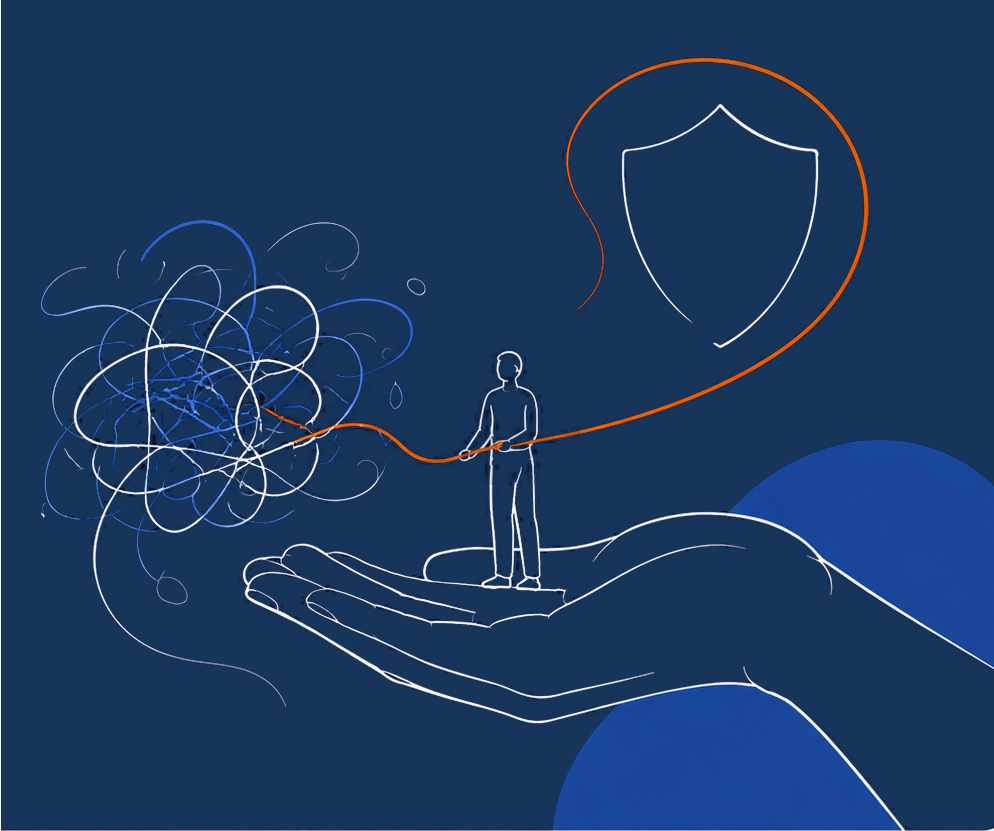
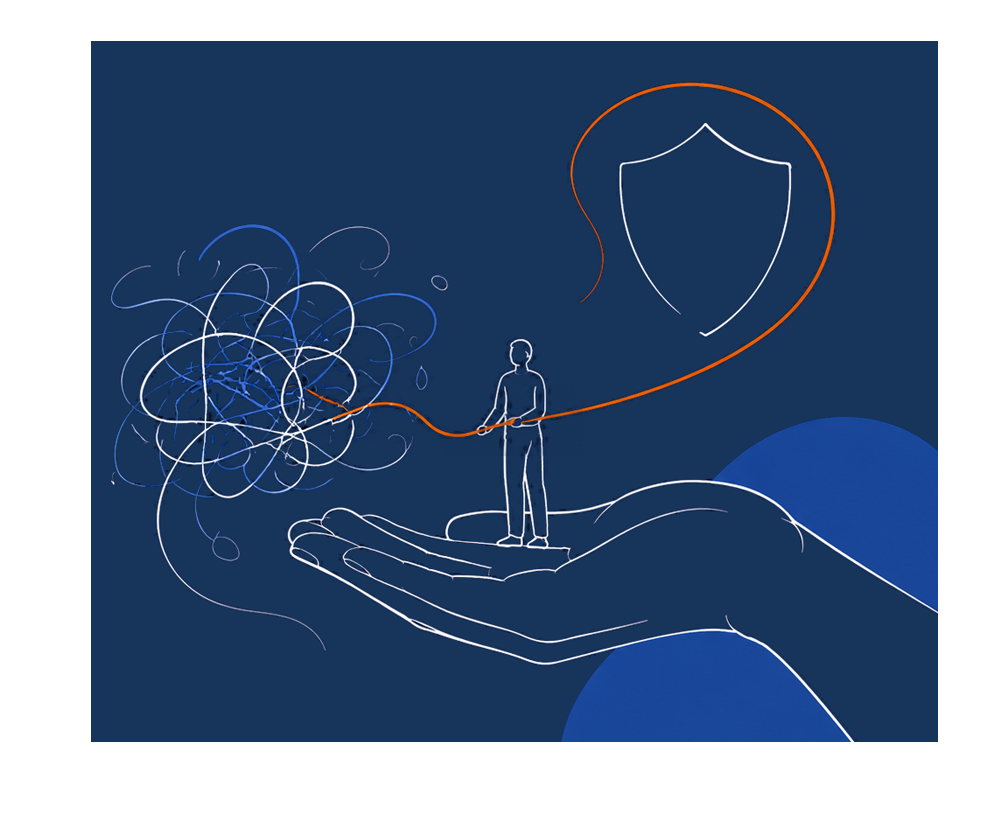
Replace hero illustration artwork

diff --git a/app/globals.css b/app/globals.css
@@ -776,7 +776,6 @@ input, textarea, select { caret-color: var(--ux4g-text-brand-primary-default); }
   background: linear-gradient(135deg, var(--ux4g-bg-neutral-strong), var(--ux4g-bg-primary-stronger));
   color: var(--ux4g-text-neutral-inverse);
 }
-.hero-layout::before { position: absolute; inset-block-start: calc(var(--ux4g-section-xl) * -2); inset-inline-end: calc(var(--ux4g-section-xl) * -1); inline-size: calc(var(--ux4g-section-xl) * 7); block-size: calc(var(--ux4g-section-xl) * 7); border: calc(var(--ux4g-border-thicker) * 8) solid var(--ux4g-border-color-primary-default); border-radius: var(--ux4g-radius-full); content: ""; }
 .hero-content { position: relative; z-index: 2; }
 .hero-content h1 { max-inline-size: 18ch; color: var(--ux4g-text-neutral-inverse); font-size: clamp(var(--ux4g-fs-40), 5vw, var(--ux4g-fs-60)); line-height: 1.02; letter-spacing: -0.035em; }
 .hero-content h1 span { color: var(--ux4g-bg-primary-subtle); }
@@ -787,23 +786,16 @@ input, textarea, select { caret-color: var(--ux4g-text-brand-primary-default); }
   position: relative;
   z-index: 2;
   inline-size: min(100%, 38rem);
-  min-block-size: 30rem;
   display: flex;
   align-items: center;
   justify-content: center;
   justify-self: end;
-  border: 1px solid rgba(255, 255, 255, 0.18);
-  border-radius: 22px;
-  background: rgba(255, 255, 255, 0.08);
-  box-shadow: 0 2rem 4.5rem rgba(0, 0, 0, 0.22);
-  overflow: hidden;
 }
 .hero-illustration-img {
-  inline-size: 132%;
-  block-size: 132%;
-  max-inline-size: none;
-  object-fit: cover;
-  object-position: center;
+  inline-size: 100%;
+  block-size: auto;
+  max-inline-size: 100%;
+  object-fit: contain;
   display: block;
 }
 
@@ -879,20 +871,13 @@ input, textarea, select { caret-color: var(--ux4g-text-brand-primary-default); }
   .priority-actions .ux4g-btn { inline-size: 100%; }
   .service-hero { padding-block: var(--ux4g-padding-m) var(--ux4g-section-s); }
   .hero-layout { min-block-size: auto; gap: var(--ux4g-section-s); padding: var(--ux4g-section-s) var(--ux4g-padding-l); border-radius: var(--ux4g-radius-xl); }
-  .hero-layout::before { display: none; }
   .hero-content h1 { font-size: var(--ux4g-fs-40); }
   .hero-content > * + * { margin-block-start: var(--ux4g-gap-row-m); }
   .hero-actions { display: grid; }
   .hero-actions .ux4g-btn { inline-size: 100%; }
   .hero-illustration-container {
     inline-size: 100%;
-    min-block-size: 18rem;
     justify-self: stretch;
-    border-radius: var(--ux4g-radius-xl);
-  }
-  .hero-illustration-img {
-    inline-size: 125%;
-    block-size: 125%;
   }
   .hero-visual { padding: var(--ux4g-padding-m); border-radius: var(--ux4g-radius-xl); }
   .route-motif { min-block-size: var(--ux4g-section-m); margin-block-end: var(--ux4g-section-xs); }
